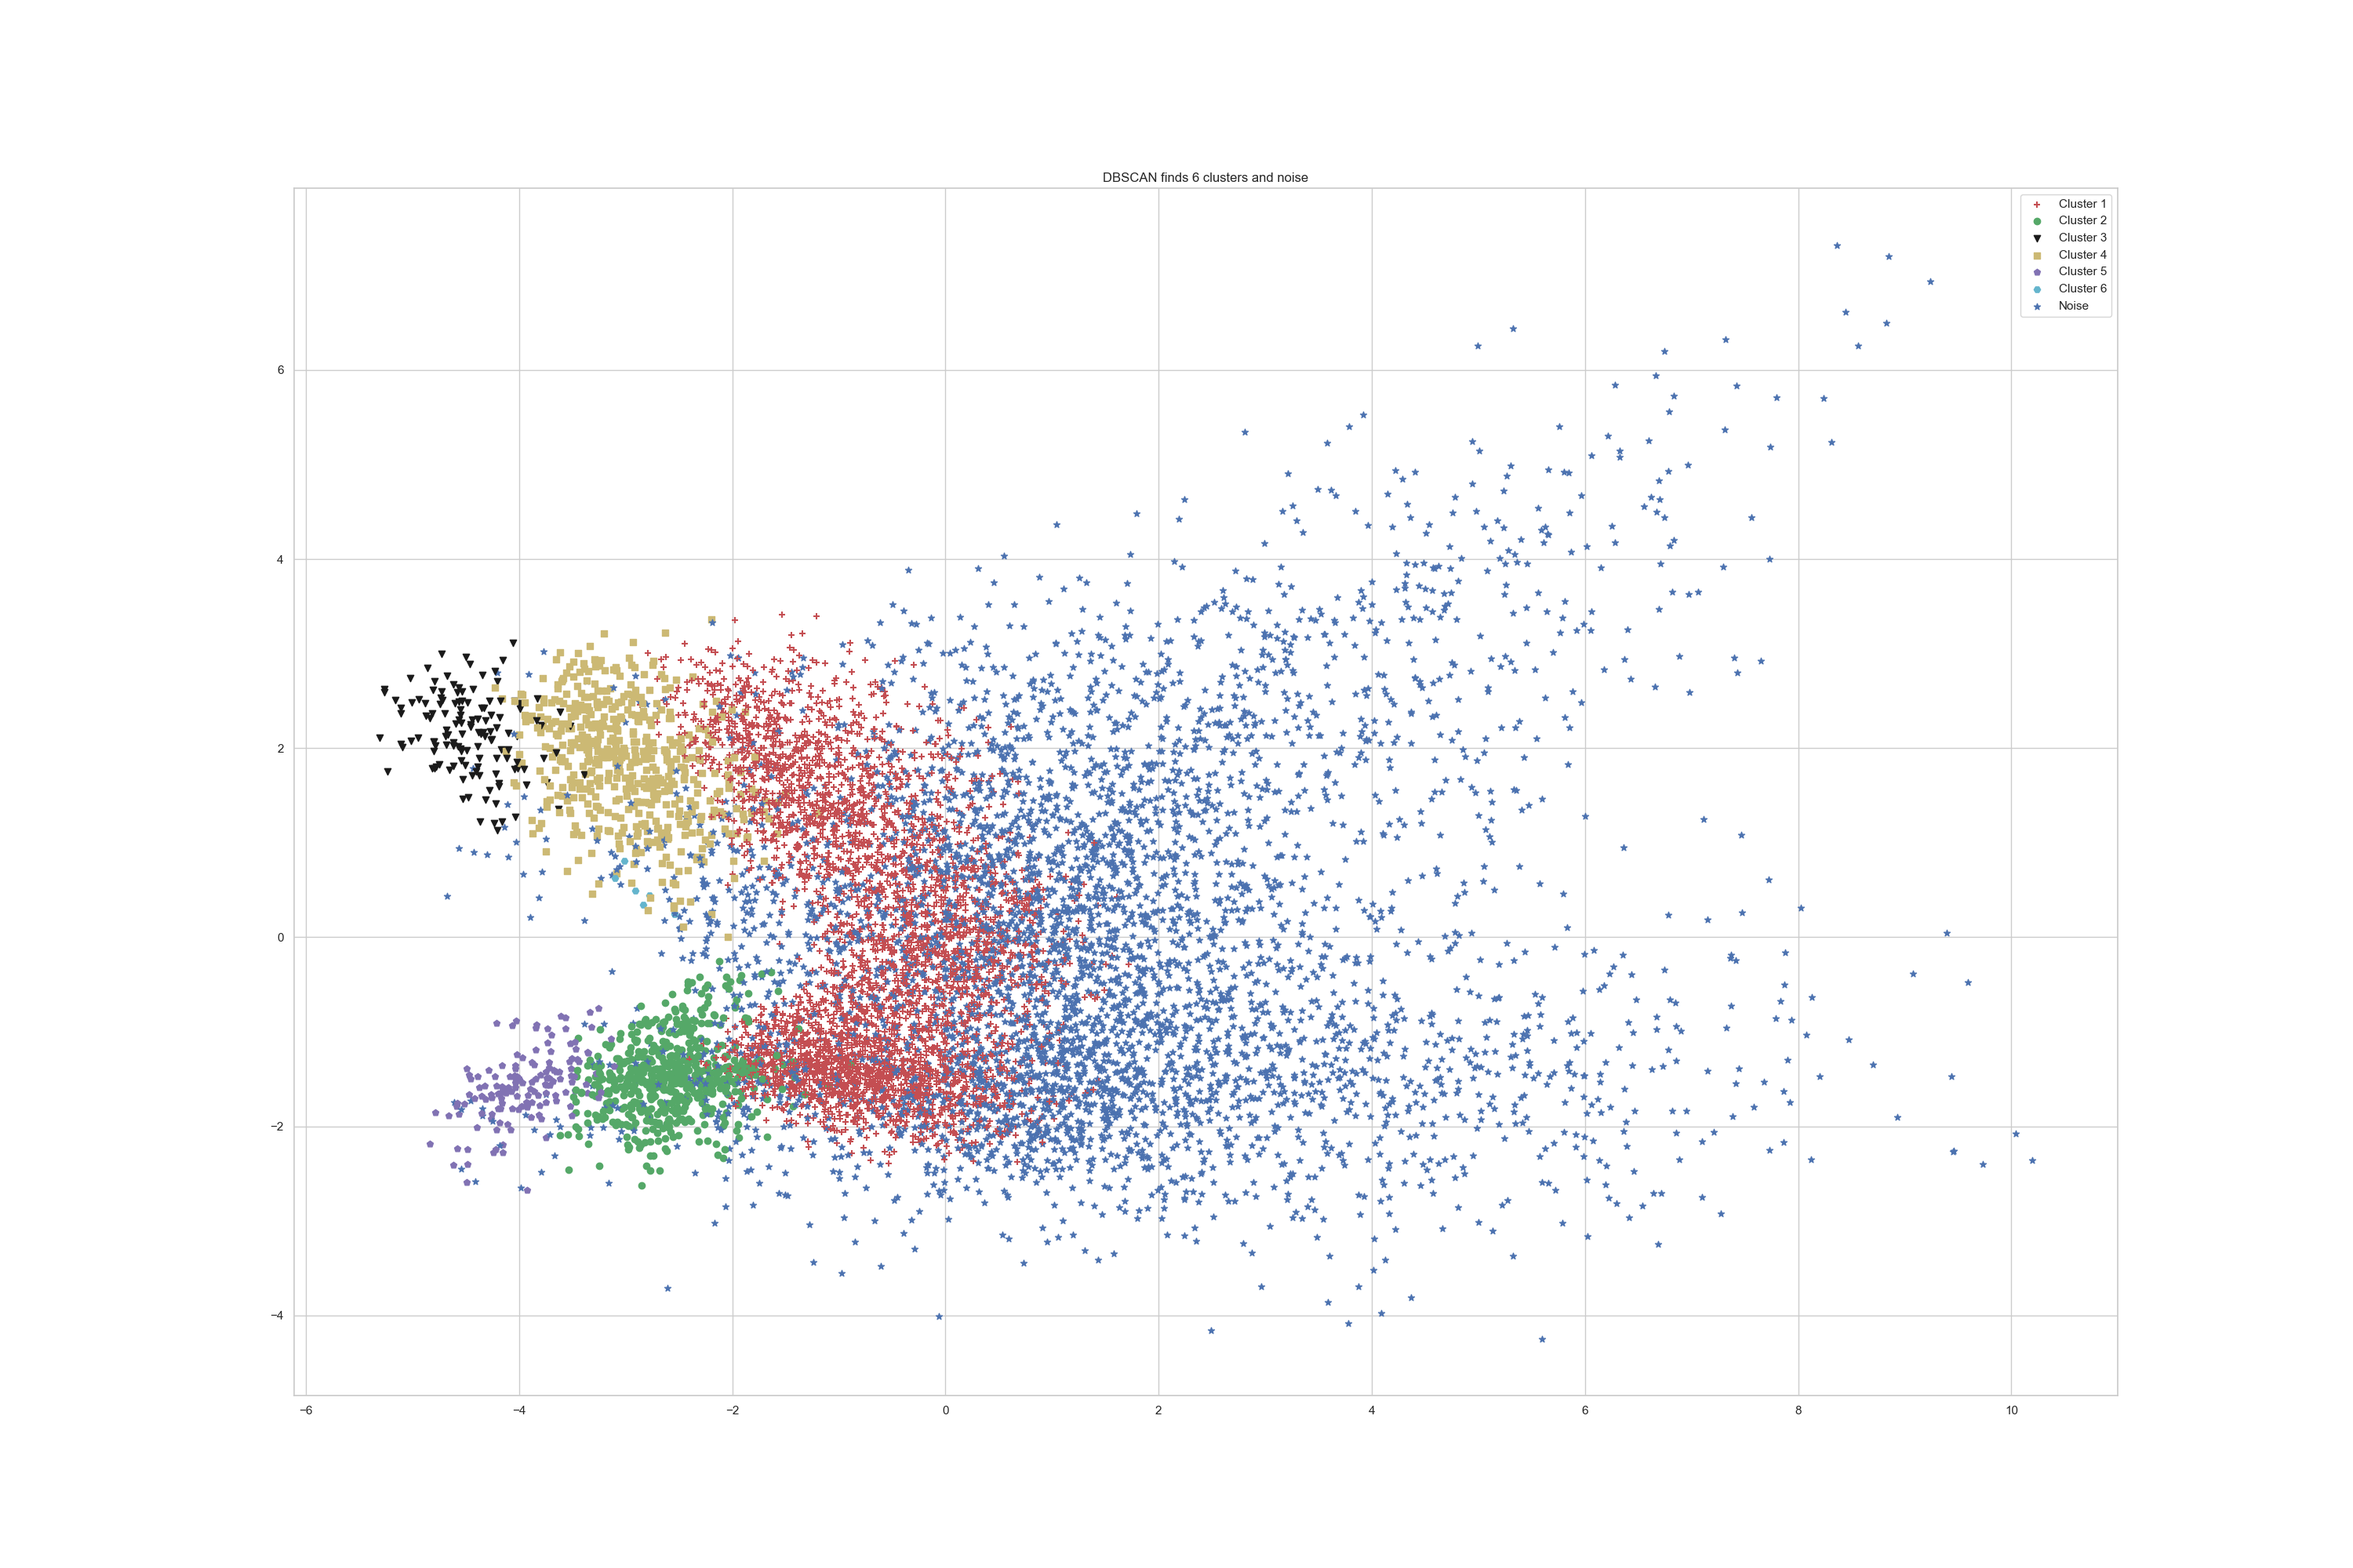
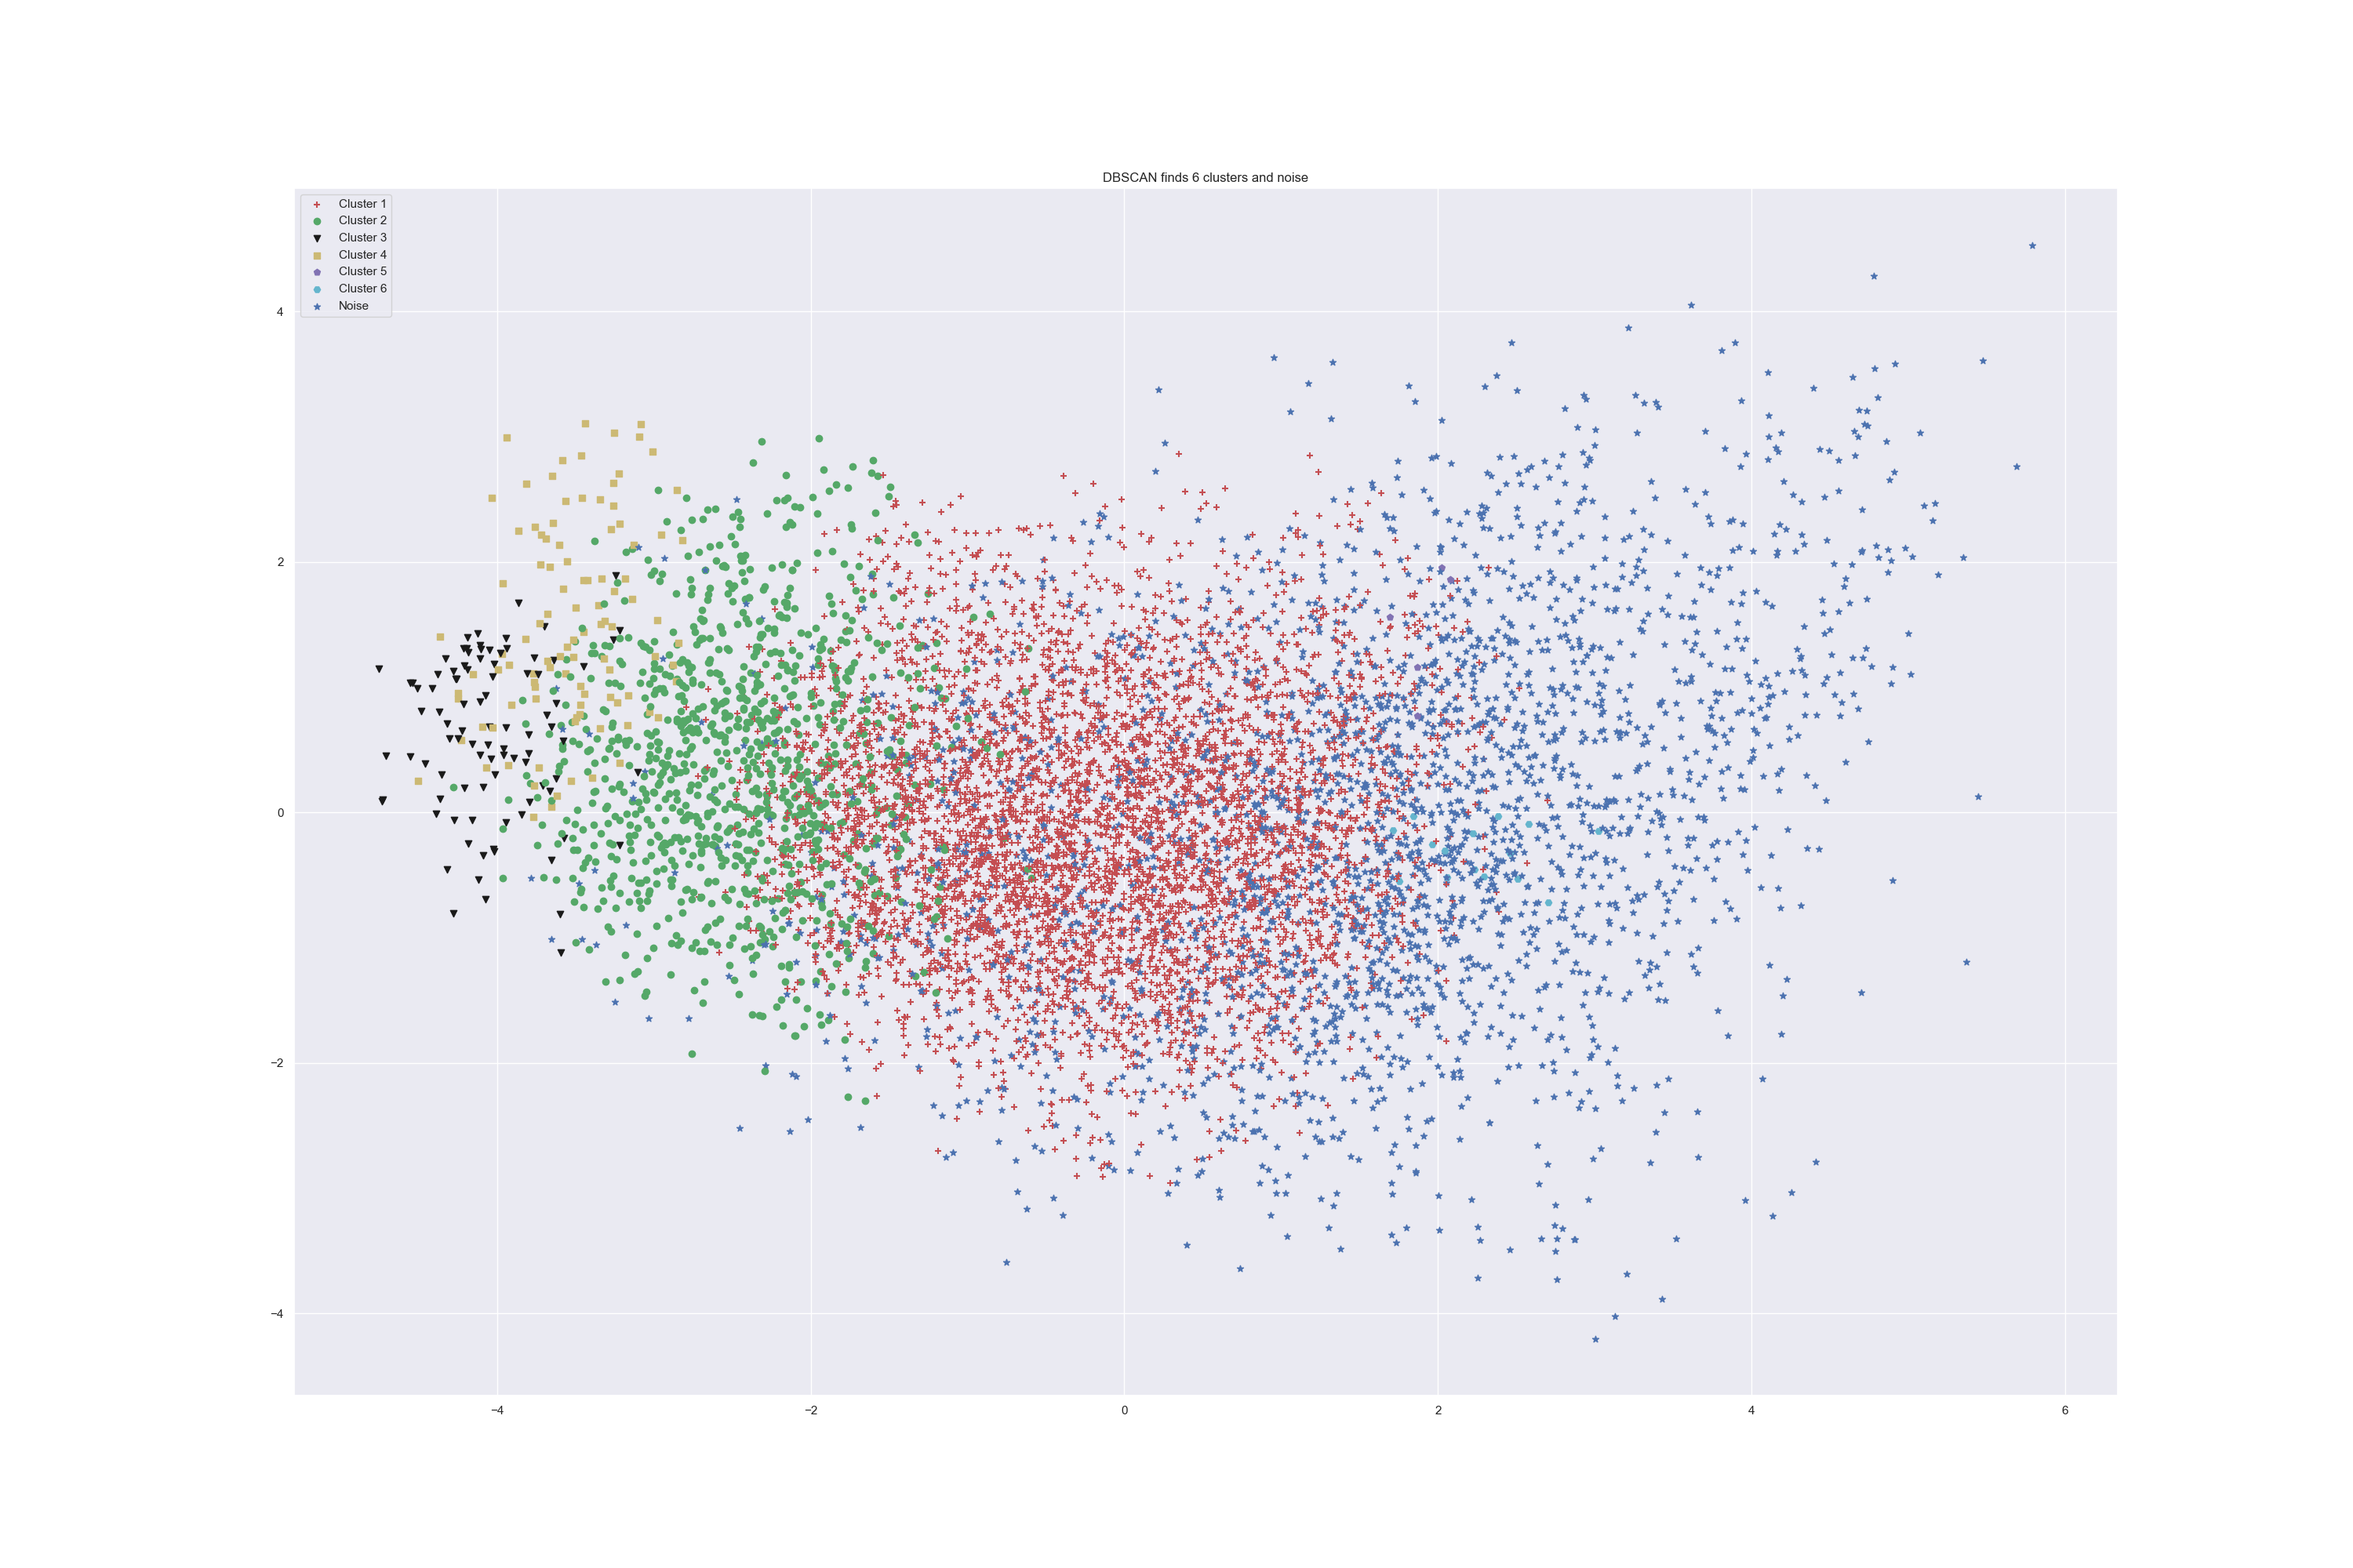
Corrected error in the aquisition cost formula and changed naming for spectral clust

diff --git a/DM_project_sandbox.py b/DM_project_sandbox.py
@@ -1,38 +1,3 @@
-# Import packages
-import sqlite3
-import pandas as pd
-import numpy as np
-from datetime import date
-import scipy.cluster.hierarchy as clust_hier
-from scipy import stats
-from scipy.cluster.hierarchy import dendrogram, linkage
-from matplotlib import pyplot as plt
-import matplotlib.font_manager
-from pandas.util.testing import assert_frame_equal
-from sklearn.cluster import KMeans, DBSCAN
-from sklearn.decomposition import PCA
-from sklearn.preprocessing import StandardScaler
-import seaborn as sns
-from collections import defaultdict
-from matplotlib.colors import rgb2hex, colorConverter
-from itertools import combinations
-from sklearn.cluster import MeanShift, estimate_bandwidth
-from mpl_toolkits.mplot3d import Axes3D
-from matplotlib import cm
-from scipy.cluster.vq import kmeans2
-import os
-from kmodes.kmodes import KModes
-from sklearn import mixture
-from sklearn.metrics import silhouette_samples
-from sklearn.metrics import silhouette_score
-from sompy.sompy import SOMFactory
-from sompy.visualization.bmuhits import BmuHitsView
-from sompy.visualization.mapview import View2D
-from sompy.visualization.hitmap import HitMapView
-from sompy.visualization.plot_tools import plot_hex_map
-
-import logging
-
 # This is a summary of the labs sessions topics we’ve covered
 # Just to put checkmarks on the techniques we are using in this project:
 
@@ -105,11 +70,46 @@ import logging
 #	from dtreeplt import dtreeplt
 #	import graphviz
 
+# Import packages
+import sqlite3
+import pandas as pd
+import numpy as np
+from datetime import date
+import scipy.cluster.hierarchy as clust_hier
+from scipy import stats
+from scipy.cluster.hierarchy import dendrogram, linkage
+from matplotlib import pyplot as plt
+import matplotlib.font_manager
+from pandas.util.testing import assert_frame_equal
+from sklearn.cluster import KMeans, DBSCAN
+from sklearn.decomposition import PCA
+from sklearn.preprocessing import StandardScaler
+import seaborn as sns
+from collections import defaultdict
+from matplotlib.colors import rgb2hex, colorConverter
+from itertools import combinations
+from sklearn.cluster import MeanShift, estimate_bandwidth
+from mpl_toolkits.mplot3d import Axes3D
+from matplotlib import cm
+from scipy.cluster.vq import kmeans2
+import os
+from kmodes.kmodes import KModes
+from sklearn import mixture
+from sklearn.metrics import silhouette_samples
+from sklearn.metrics import silhouette_score
+from sompy.sompy import SOMFactory
+from sompy.visualization.bmuhits import BmuHitsView
+from sompy.visualization.mapview import View2D
+from sompy.visualization.hitmap import HitMapView
+from sompy.visualization.plot_tools import plot_hex_map
+import logging
+
 #defining functions to be used further down
 
 # Selecting the number of clusters with silhouette analysis
 # Reference:
 # https://scikit-learn.org/stable/auto_examples/cluster/plot_kmeans_silhouette_analysis.html
+
 def silhouette_analysis(df_in, n, m):
     '''
     Selecting the number of clusters with
@@ -517,12 +517,12 @@ df.drop('birth_year', axis=1, inplace=True)
 # it's possible to obtain extra valuable information.
 
 # #create feature for number of active premiums per customer
-df['number_active_premiums']=df[['motor_premiums', 'household_premiums', 'health_premiums',
+df['active_premiums']=df[['motor_premiums', 'household_premiums', 'health_premiums',
         'life_premiums', 'work_premiums']].gt(0).sum(axis=1)
 
 #create feature for number of premiums cancelled this year but were active the previous year per customer
 #a negative number for the premium indicates a reversal i.e. that a policy was active the previous year but canceled this year
-#after correlation analysis we decide to make this a pct of total active premiums (5)
+#after correlation analysis we decide to make this a pct of total active premiums last year (5)
 df['cancelled_premiums_pct']=df[['motor_premiums', 'household_premiums', 'health_premiums',
        'life_premiums', 'work_premiums']].lt(0).sum(axis=1)/df[['motor_premiums', 'household_premiums', 'health_premiums',
        'life_premiums', 'work_premiums']].ne(0).sum(axis=1)
@@ -560,7 +560,7 @@ df['amt_paidby_comp'] = df['claims_rate'] * df['total_premiums']
 #  we assumed Customer annual profit = total premiums - amt_paidby_comp and number of years as customer was the cust_tenure
 
 # # # Calculating the acquisition cost assuming claims_rate is the same as that over the last 2 yrs
-df['cust_acq_cost'] = df['amt_paidby_comp'] * df['cust_tenure'] - df['customer_monetary_value']
+df['cust_acq_cost'] = (df['total_premiums']-df['amt_paidby_comp']) * df['cust_tenure'] - df['customer_monetary_value']
 
 # Calculate the premium/wage proportion
 df['premium_wage_ratio'] = df['total_premiums'] / (df['gross_monthly_salary'] * 12)
@@ -601,10 +601,11 @@ qtl_2 = 0.99  # upper boundary
 
 # Apply box-plot function to the selected columns
 boxplot_all_columns(X_std_df, qtl_1, qtl_2)
+print(df.shape)
 
 # There are outliers, so let's remove them with the 'IQR_drop_outliers' function
 df, df_outliers = IQR_drop_outliers(df, qtl_1, qtl_2)
-
+print(df.shape)
 # Standardize the data after dropping the outliers
 scaler = StandardScaler()
 X_std = scaler.fit_transform(df.drop(categorical_cols, axis=1))
@@ -828,7 +829,7 @@ a = hits.show(sm, labelsize=12)
 
 # ------------------------------------------------------
 # Applying Silhouette Analysis function over normalized df
-silhouette_analysis(X_std, 2, 6)
+silhouette_analysis(X_std, 2, 4)
 
 
 # ## Experiment with alternative clustering techniques
@@ -969,7 +970,7 @@ fig.savefig('{}_method_dendrogram.png'.format(method))
 # DBSCAN
 
 
-db = DBSCAN(eps=1, min_samples=10).fit(X_std)
+db = DBSCAN(eps=1, min_samples=15).fit(X_std)
 
 labels = db.labels_
 
@@ -1235,11 +1236,11 @@ SC_df = df[['customer_monetary_value', 'claims_rate', 'premium_wage_ratio']]
 
 # 2) Standardize the data frame before performing Clustering
 scaler = StandardScaler()
-X_std = scaler.fit_transform(SC_df)
-X_stdSC_df = pd.DataFrame(X_std, columns=SC_df.columns, index=SC_df.index)
+SC_std = scaler.fit_transform(SC_df)
+SC_std_df = pd.DataFrame(SC_std, columns=SC_df.columns, index=SC_df.index)
 
 # 3.a) Determine the correct number of clusters using the elbow plot
-elbow_plot(X_stdSC_df, 9)   # Let's try 3 clusters
+elbow_plot(SC_std_df, 9)   # Let's try 3 clusters
 
 # The Spectral Clustering Method can be developed with 2 types of affinity.
 # We will use both types and compare the results to choose the best
@@ -1248,13 +1249,13 @@ elbow_plot(X_stdSC_df, 9)   # Let's try 3 clusters
 spectral_model_rbf = SpectralClustering(n_clusters=3, affinity='rbf')
 
 # Training the model and Storing the predicted cluster labels
-labels_rbf = spectral_model_rbf.fit_predict(X_stdSC_df)
+labels_rbf = spectral_model_rbf.fit_predict(SC_std_df)
 
 # 4.b) Using affinity = ‘nearest_neighbors’
 spectral_model_nn = SpectralClustering(n_clusters=3, affinity='nearest_neighbors')
 
 # Training the model and Storing the predicted cluster labels
-labels_nn = spectral_model_nn.fit_predict(X_stdSC_df)
+labels_nn = spectral_model_nn.fit_predict(SC_std_df)
 
 # 5.a) Plotting the results for rbf:
 # Building the label to colour mapping
@@ -1274,9 +1275,9 @@ cvec = [colours[label] for label in labels_rbf]
 fig = plt.figure()
 ax = fig.add_subplot(111, projection='3d')
 
-xs = [X_stdSC_df['customer_monetary_value']]
-ys = [X_stdSC_df['claims_rate']]
-zs = [X_stdSC_df['premium_wage_ratio']]
+xs = [SC_std_df['customer_monetary_value']]
+ys = [SC_std_df['claims_rate']]
+zs = [SC_std_df['premium_wage_ratio']]
 
 ax.scatter(xs, ys, zs, c=cvec, marker='o')
 
@@ -1304,9 +1305,9 @@ cvec = [colours[label] for label in labels_nn]
 fig = plt.figure()
 ax = fig.add_subplot(111, projection='3d')
 
-xs = [X_stdSC_df['customer_monetary_value']]
-ys = [X_stdSC_df['claims_rate']]
-zs = [X_stdSC_df['premium_wage_ratio']]
+xs = [SC_std_df['customer_monetary_value']]
+ys = [SC_std_df['claims_rate']]
+zs = [SC_std_df['premium_wage_ratio']]
 
 ax.scatter(xs, ys, zs, c=cvec, marker='o')
 
@@ -1319,16 +1320,16 @@ plt.show()
 #-------- Re-Scale the data before plotting -------------
 # Re-scale df
 # X_stdSC_df = X_stdSC_df.drop('Clusters', axis=1)  # It{s not ok
-scaler.inverse_transform(X=X_stdSC_df)
-SC_df = pd.DataFrame(scaler.inverse_transform(X=X_stdSC_df),
-                     columns=X_stdSC_df.columns, index=X_stdSC_df.index)
+scaler.inverse_transform(X=SC_std_df)
+SC_df = pd.DataFrame(scaler.inverse_transform(X=SC_std_df),
+                     columns=SC_std_df.columns, index=SC_std_df.index)
 # Add the clusters labels to SC_df
 SC_df = pd.DataFrame(pd.concat([SC_df, pd.DataFrame(labels_rbf)], axis=1))
 SC_df.columns = ['CMV', 'Claims Rate', 'PWR', 'Labels']
 SC_df.head()        # I think I'm loosing the Customer Identity code around here
 SC_df.dropna(inplace=True)
 
-del scaler, X_stdSC_df, X_std
+del scaler, SC_std_df, SC_std
 
 
 
